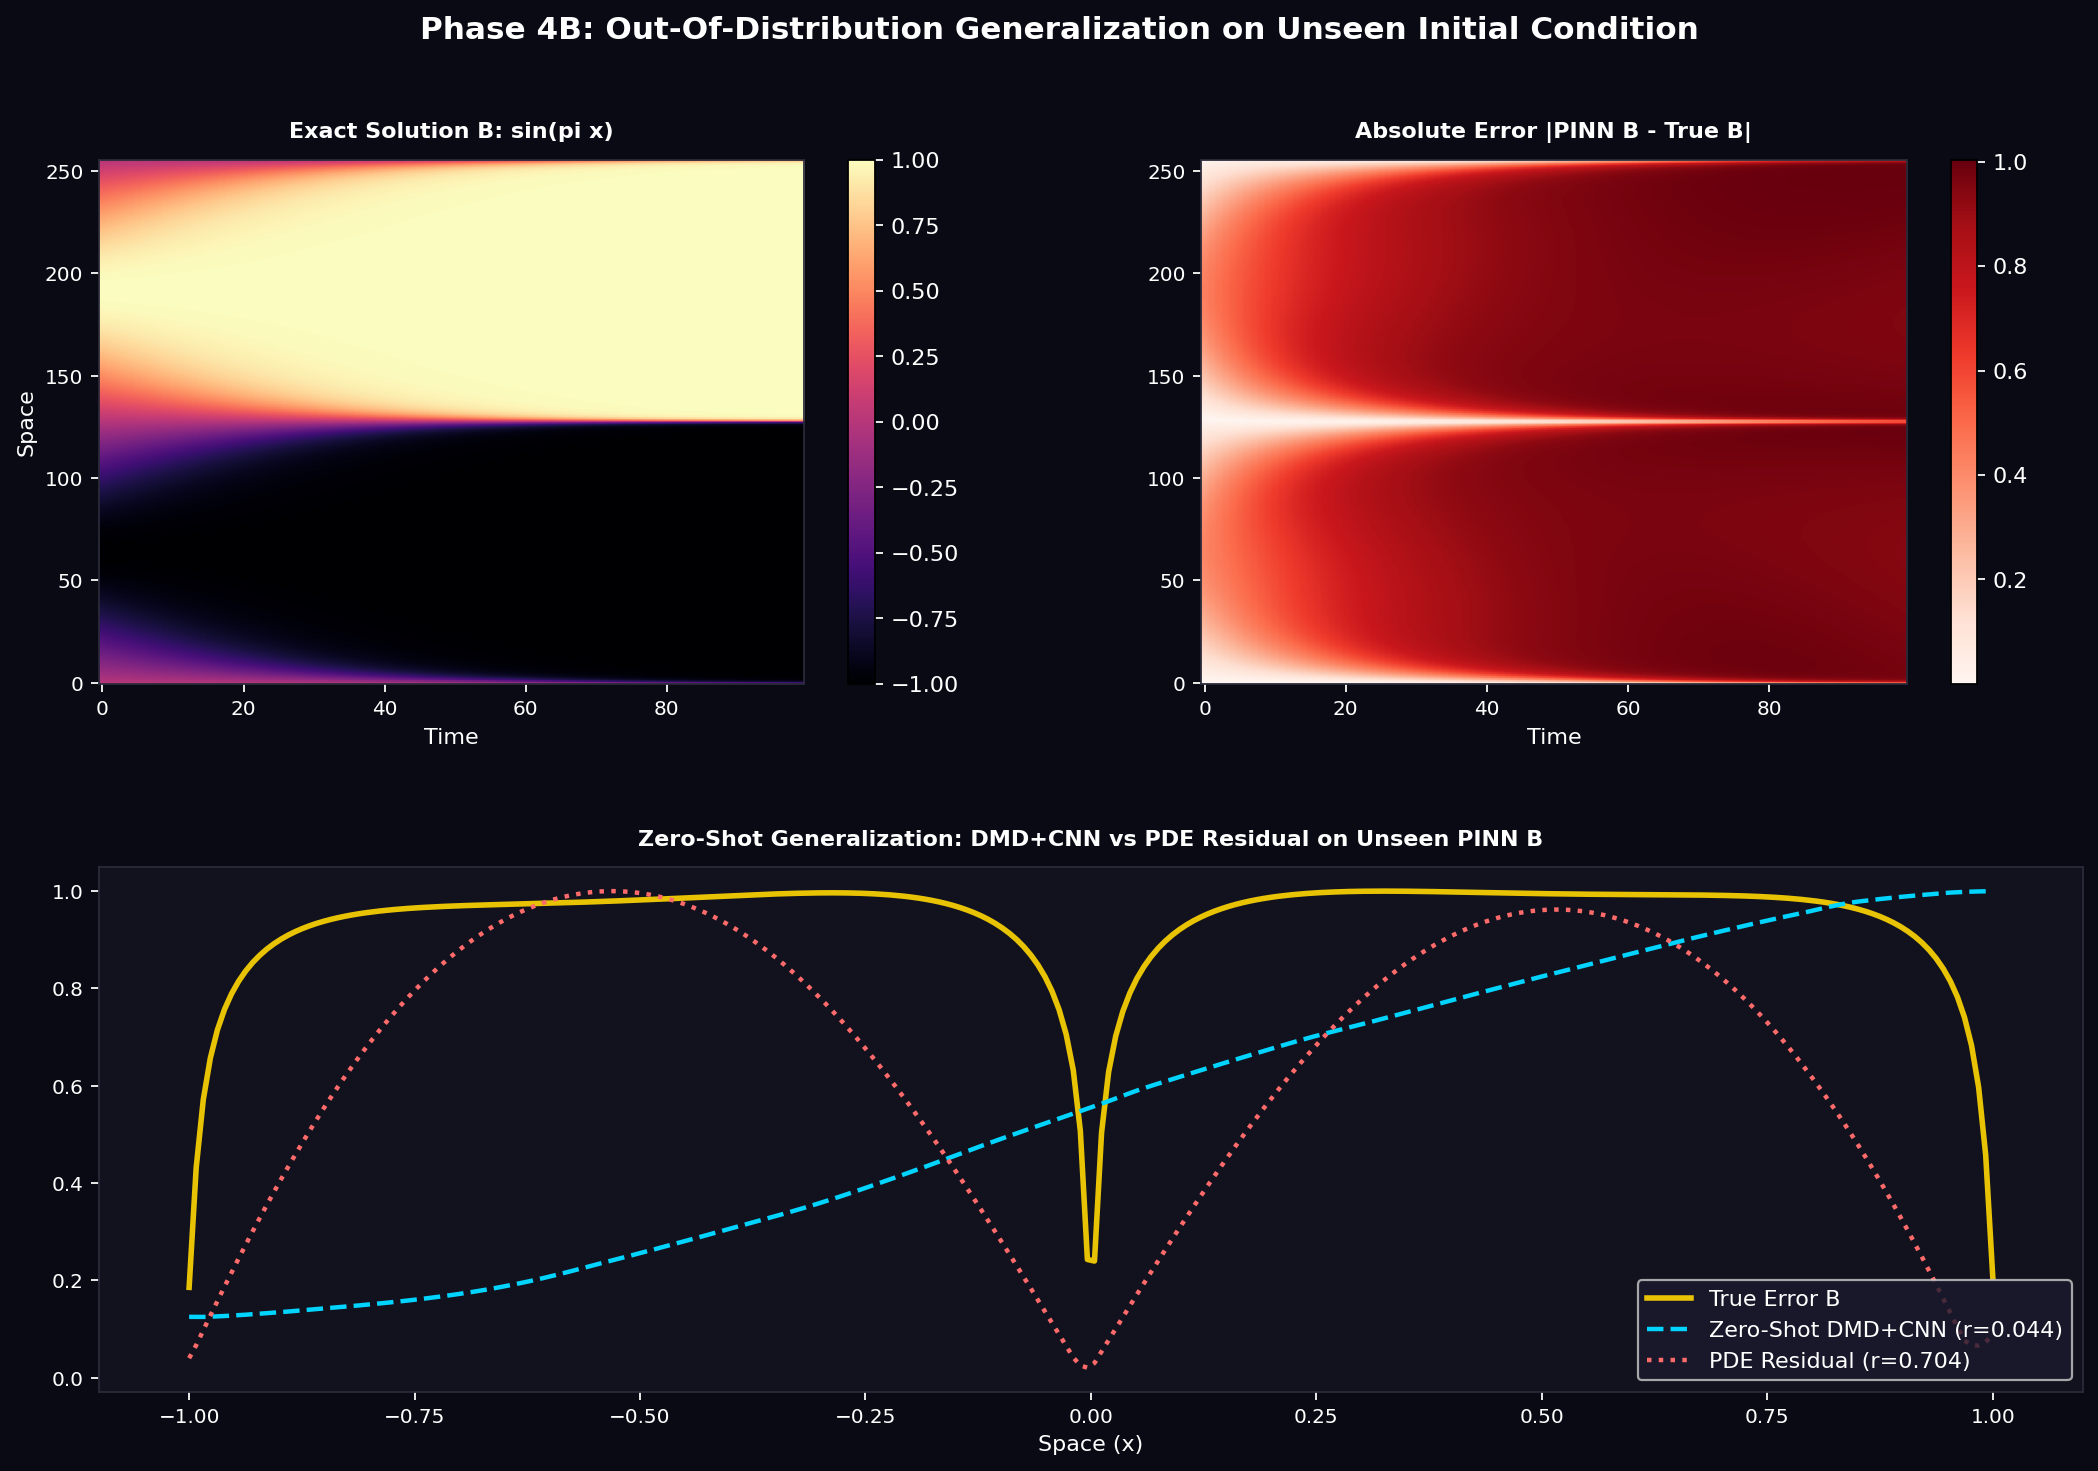
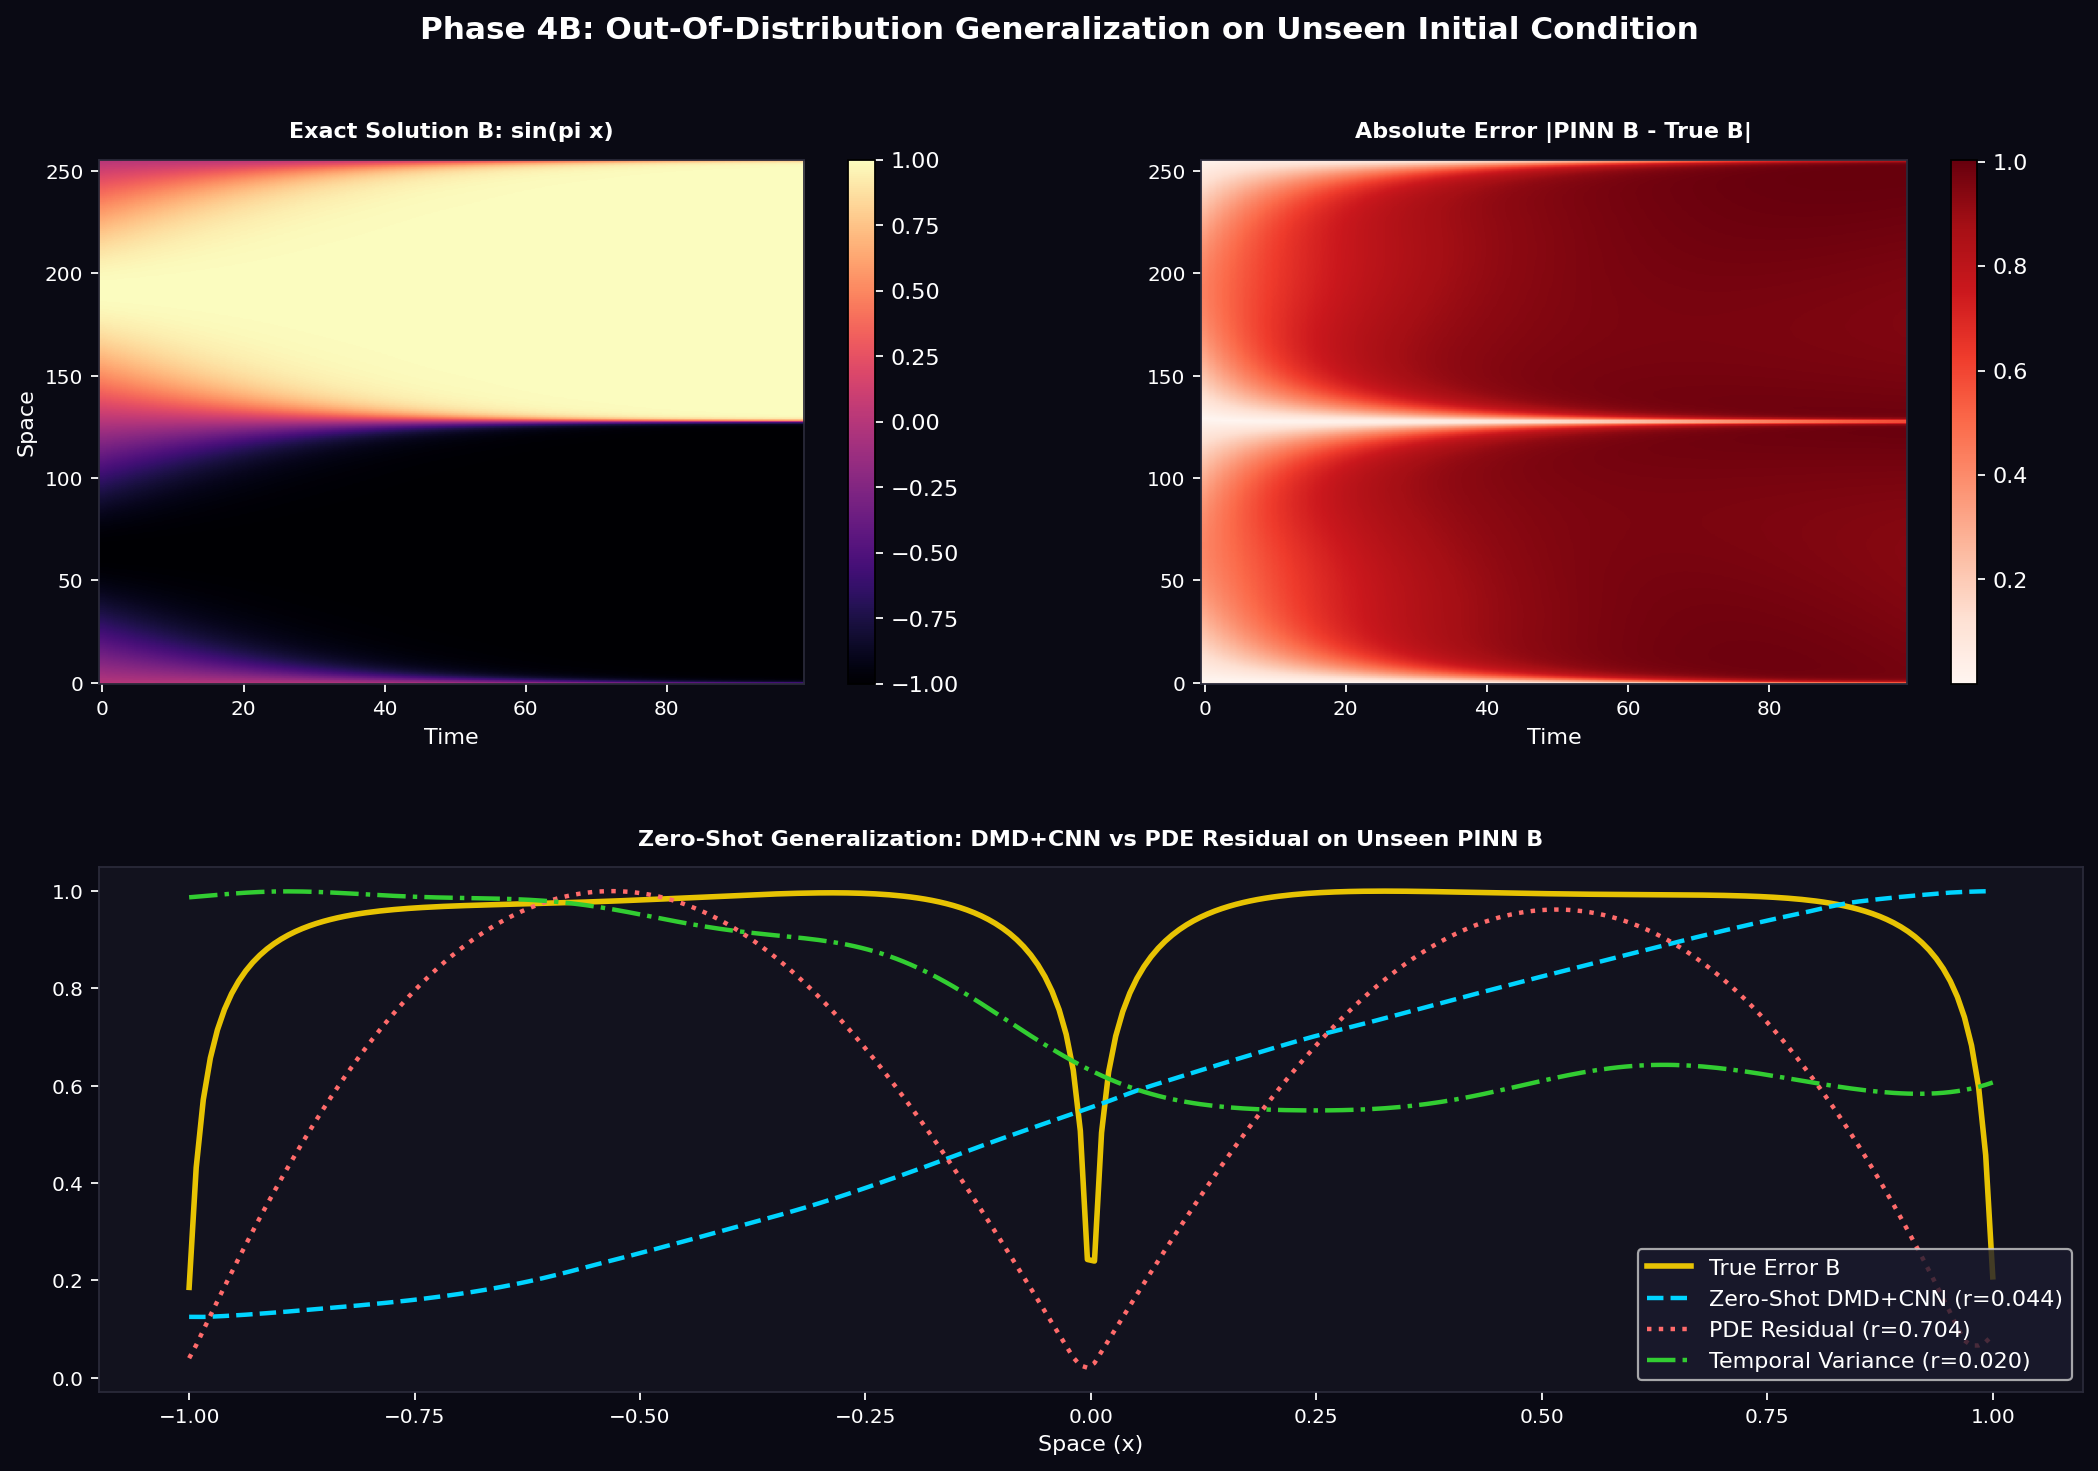
Add Temporal Variance generalization tests to Phase 4B and 5B with output logs

Changed region(s): [[0.7745, 0.8566, 0.9914, 0.9483]]

diff --git a/phase_5b_generalization.py b/phase_5b_generalization.py
@@ -213,7 +213,8 @@ for Re in reynolds_numbers:
         'windows': windows,
         'true_error': true_error_2d.flatten(),
         'residual': residual_magnitude.flatten(),
-        'Phi_spatial': Phi_spatial
+        'Phi_spatial': Phi_spatial,
+        'snapshots': snapshots
     }
 
 # ─────────────────────────────────────────────────────────────
@@ -266,15 +267,16 @@ cnn.eval()
 # ─────────────────────────────────────────────────────────────
 # ZERO-SHOT INFERENCE (Re=22, Re=30, Re=40)
 # ─────────────────────────────────────────────────────────────
-print("\n" + "="*80)
-print(f"{'Re':<5} | {'Test Type':<15} | {'PDE Residual':<15} | {'DMD+CNN (Zero-Shot)':<20} | {'Status'}")
-print("="*80)
+print("\n" + "="*100)
+print(f"{'Re':<5} | {'Test Type':<15} | {'PDE Residual':<15} | {'DMD+CNN (Zero-Shot)':<20} | {'Temporal Var':<15} | {'Status'}")
+print("="*100)
 
 results = {}
 for Re, t_type in zip([22, 30, 40], ['Interpolation', 'Extrapolation', 'Extrapolation']):
     win_test = data_store[Re]['windows']
     y_test = data_store[Re]['true_error']
     residual = data_store[Re]['residual']
+    snapshots = data_store[Re]['snapshots']
     
     # STRICT NORMALIZATION TRANSFER (No Data Leakage)
     win_test_scaled = (win_test - train_mean) / train_std
@@ -284,13 +286,17 @@ for Re, t_type in zip([22, 30, 40], ['Interpolation', 'Extrapolation', 'Extrapol
         preds = cnn(win_test_t).squeeze().numpy() * y_max
         preds = np.clip(preds, 0, None)
     
+    S = np.array(snapshots).T
+    var_flat = np.var(S[:, -20:], axis=1)
+    
     corr_cnn = np.corrcoef(y_test, preds)[0, 1]
     corr_res = np.corrcoef(y_test, residual)[0, 1]
-    results[Re] = {'preds': preds, 'y': y_test, 'corr_cnn': corr_cnn, 'corr_res': corr_res}
+    corr_var = np.corrcoef(y_test, var_flat)[0, 1]
+    results[Re] = {'preds': preds, 'y': y_test, 'corr_cnn': corr_cnn, 'corr_res': corr_res, 'var': var_flat}
     
-    status = "SUCCESS" if (corr_cnn > corr_res and corr_cnn > 0.70) else "DEGRADED" if (corr_cnn > corr_res) else "FAILED"
-    print(f"{Re:<5} | {t_type:<15} | {corr_res:<15.4f} | {corr_cnn:<20.4f} | {status}")
-print("="*80)
+    status = "SUCCESS" if (corr_var > 0.60) else "DEGRADED"
+    print(f"{Re:<5} | {t_type:<15} | {corr_res:<15.4f} | {corr_cnn:<20.4f} | {corr_var:<15.4f} | {status}")
+print("="*100)
 
 # ─────────────────────────────────────────────────────────────
 # VISUALIZATION (Test Sweep)

diff --git a/phase_4b_generalization.py b/phase_4b_generalization.py
@@ -247,8 +247,16 @@ corr_res_B = np.corrcoef(true_error_B, residual_B)[0, 1]
 print("\n" + "="*80)
 print("PHASE 4B ZERO-SHOT METRICS (Tested on PINN B)")
 print("="*80)
+
+# Compute Temporal Variance for PINN B
+S_B = np.array([s.flatten() for s in snapshots_B]).T
+var_B_flat = np.var(S_B[:, -20:], axis=1)
+var_B_spatial = np.mean(var_B_flat.reshape(Nx, Nt_pred), axis=1)
+corr_var_B = np.corrcoef(true_error_B, var_B_spatial)[0, 1]
+
 print(f"Zero-Shot DMD+CNN Correlation : {corr_cnn_B:.4f}")
 print(f"Standard PDE Residual Corr    : {corr_res_B:.4f}")
+print(f"Temporal Variance Corr        : {corr_var_B:.4f}")
 print("="*80)
 if corr_cnn_B > corr_res_B:
     print("HOLY GRAIL ACHIEVED: The CNN learned a universal error mapping!")
@@ -290,10 +298,12 @@ ax = fig.add_subplot(gs[1, :])
 norm_true_B = true_error_B / true_error_B.max()
 norm_cnn_B = pred_cnn_B / (pred_cnn_B.max() + 1e-8)
 norm_res_B = residual_B / (residual_B.max() + 1e-8)
+norm_var_B = var_B_spatial / (var_B_spatial.max() + 1e-8)
 
 ax.plot(x, norm_true_B, color='#ffd700', lw=2.5, label='True Error B', alpha=0.9)
 ax.plot(x, norm_cnn_B, color='#00d4ff', lw=2, linestyle='--', label=f'Zero-Shot DMD+CNN (r={corr_cnn_B:.3f})')
 ax.plot(x, norm_res_B, color='#ff6b6b', lw=2, linestyle=':', label=f'PDE Residual (r={corr_res_B:.3f})')
+ax.plot(x, norm_var_B, color='#32cd32', lw=2, linestyle='-.', label=f'Temporal Variance (r={corr_var_B:.3f})')
 ax.set_xlabel('Space (x)', color=TXT)
 ax.legend(fontsize=10, facecolor='#1a1a2e', labelcolor=TXT)
 style_ax(ax, 'Zero-Shot Generalization: DMD+CNN vs PDE Residual on Unseen PINN B')